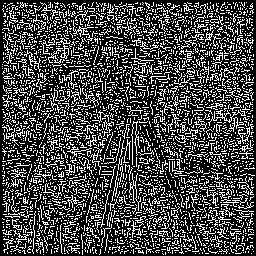
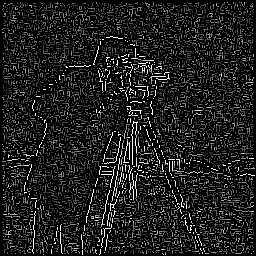
Finalization
Updated readme presentation, fixed some code bugs with missing f prefixes and missing Gaussian kernel normalization

Changed region(s): [[0.0, 0.0, 1.0, 1.0]]

diff --git a/src/canny_detector.py b/src/canny_detector.py
@@ -1,6 +1,6 @@
 # Canny Edge Detector - Intro to Robotics Project
 # Apply Kernels and various filters to extract edges and lines from photos
-# No OpenCV Required!
+# No OpenCV needed for the edge detection!
 # Author: Joey P
 # Date: 4/15/25 (Updated 3/22/26)
 
@@ -53,10 +53,11 @@ def gaussianFilter(img, kernelSize, stdDev, name="default"):
     ax = np.linspace(-(kernelSize // 2), kernelSize // 2, kernelSize)
     xx, yy = np.meshgrid(ax, ax)
     gkernel = np.exp(-(xx**2 + yy**2) / (2. * stdDev**2))
+    gkernel /= gkernel.sum()
 
     gImg = applyKernel(img, gkernel)
 
-    print("Gauss kernel applied to {name}")
+    print(f"Gauss kernel applied to {name}")
 
     cv2.imwrite(os.path.join(OUTPUT_DIR, f"blurred_{name}.png"), gImg)
     plt.imshow(gImg, cmap='gray')
@@ -85,17 +86,22 @@ def sobel(img, name="default"):
     # apply Gx and Gy
     Gx = applyKernel(img, sobelX)
     sxImg = Gx
+    # export Sobel X
     cv2.imwrite(os.path.join(OUTPUT_DIR, f"sobelX_{name}.png"), sxImg)
 
     Gy = applyKernel(img, sobelY)
     syImg  = Gy
+    # export Sobel Y
     cv2.imwrite(os.path.join(OUTPUT_DIR, f"sobelY_{name}.png"), syImg)
 
     # magnitude and direction
     magArr = np.sqrt(Gx**2 + Gy**2)
     dirArr = np.arctan2(Gy, Gx)         # radians
 
-    print("Gx and Gy applied to {name}")
+    # export Sobel Magnitude
+    cv2.imwrite(os.path.join(OUTPUT_DIR, f"sobelMag_{name}.png"), magArr)
+
+    print(f"Gx and Gy applied to {name}")
     
     plt.subplot(1, 3, 1)
     plt.imshow(sxImg, cmap='gray')
@@ -160,7 +166,7 @@ def nonMaxSupress(magArr, dirArr, name="default"):
 
     thinnedImg = output
 
-    print("NMS applied to {name}")
+    print(f"NMS applied to {name}")
     
     cv2.imwrite(os.path.join(OUTPUT_DIR, f"thinned_{name}.png"), thinnedImg)
     plt.imshow(thinnedImg, cmap='gray')
@@ -209,7 +215,7 @@ def doubleThreshold(img, minRatio, maxRatio, name="default"):
 
     cannyImg = edges
 
-    print("Double thresh + Hysteresis complete for {name}")
+    print(f"Double thresh + Hysteresis complete for {name}")
 
     cv2.imwrite(os.path.join(OUTPUT_DIR, f"final_canny_{name}.png"), cannyImg)
     plt.imshow(cannyImg, cmap='gray')

diff --git a/README.md b/README.md
@@ -5,10 +5,28 @@
 
 **Date:** 4/15/25 (Updated 3/22/26)
 
-This project implements multi-stage Canny Edge Dection of an image in Python without relying on `cv2.Canny()`.
+This project implements multi-stage Canny Edge Detection of an image in Python without relying on `cv2.Canny()`.
 
 ## Implementation
-The pipeline processes raw images through five stages to extract edge structure while suppressing noise.
+The pipeline processes raw images through four stages to extract edge structure while suppressing noise.
+
+```mermaid
+flowchart LR
+    A[Input Image] --> B[Grayscale]
+    B --> C[Gaussian Blur]
+    C --> D[Sobel X / Sobel Y]
+    D --> E[Gradient Magnitude<br/>and Direction]
+    E --> F[Non-Maximum<br/>Suppression]
+    F --> G[Double Threshold]
+    G --> H[Hysteresis]
+    H --> I[Edge Map]
+
+    C -. blurred_*.png .-> O[(output/)]
+    D -. sobelX_*.png / sobelY_*.png .-> O
+    E -. sobelMag_*.png .-> O
+    F -. thinned_*.png .-> O
+    H -. final_canny_*.png .-> O
+```
 
 ### Gaussian Blurring
 To reduce image noise, I applied a Gaussian filter. The weight $G$ at any pixel $(x, y)$ is calculated using the 2D Gaussian distribution:
@@ -34,6 +52,24 @@ Pixels are classified into three categories based on `maxRatio` and `minRatio`:
 3. **Suppressed (0):** Below `lowThresh`.
 
 **Hysteresis:** Weak pixels are only promoted to Strong if they are connected to an existing Strong pixel within 8 adjacent tiles.
+
+## Project Structure
+```
+Canny-Edge-Detector/
+├── images/                 # Input test images
+├── output/                 # Generated images from each pipeline stage
+│   ├── blurred_*.png       #   Gaussian blur
+│   ├── sobelX_*.png        #   Horizontal gradient (Gx)
+│   ├── sobelY_*.png        #   Vertical gradient (Gy)
+│   ├── sobelMag_*.png      #   Gradient magnitude
+│   ├── thinned_*.png       #   Non-maximum suppression
+│   └── final_canny_*.png   #   Final edge map after hysteresis
+├── src/
+│   ├── canny_detector.py   # Full implementation and pipeline runner
+│   └── canny_skeleton.py   # Original skeleton code provided for the project
+├── LICENSE
+└── README.md
+```
 
 ## How to Run
 
@@ -63,4 +99,11 @@ Different image characteristics require specific tuning. I found that the **High
 ### Pipeline Progression: Sanity Check
 | Original | Gaussian Blur | Sobel Magnitude | Final Canny |
 | :---: | :---: | :---: | :---: |
-| ![Original](images/sanityCheck.png) | ![Blurred](output/blurred_sanityCheck.png) | ![SobelX](output/sobelX_sanityCheck.png) | ![Final](output/final_canny_sanityCheck.png) |
+| ![Original](images/sanityCheck.png) | ![Blurred](output/blurred_sanityCheck.png) | ![Sobel Magnitude](output/sobelMag_sanityCheck.png) | ![Final](output/final_canny_sanityCheck.png) |
+
+## Limitations
+* **Performance:** Convolution, NMS, and hysteresis use pixel-by-pixel Python loops, so large images are slow. This is why the Lift Bridge and IMG_3964 inputs are resized before processing. Vectorizing with NumPy slicing would speed this up significantly.
+* **Single-pass hysteresis:** Weak pixels are only checked against their immediate 8 neighbors in one pass. A weak edge connected to a strong edge only through other weak pixels may be dropped. A flood-fill or iterative approach would trace full edge chains.
+* **Quantized gradient direction:** NMS rounds gradient direction to 0°, 45°, 90°, or 135°, which can produce slightly jagged edges on curves. Interpolating between neighbors would give smoother results.
+* **Zero-padded borders:** Kernels pad the image with zeros, which can create false gradients along image edges. Reflect or replicate padding would reduce these artifacts.
+* **Manual tuning:** Kernel size, $\sigma$, and threshold ratios are tuned by hand per image. There is no automatic threshold selection (e.g. based on median intensity or Otsu's method).
